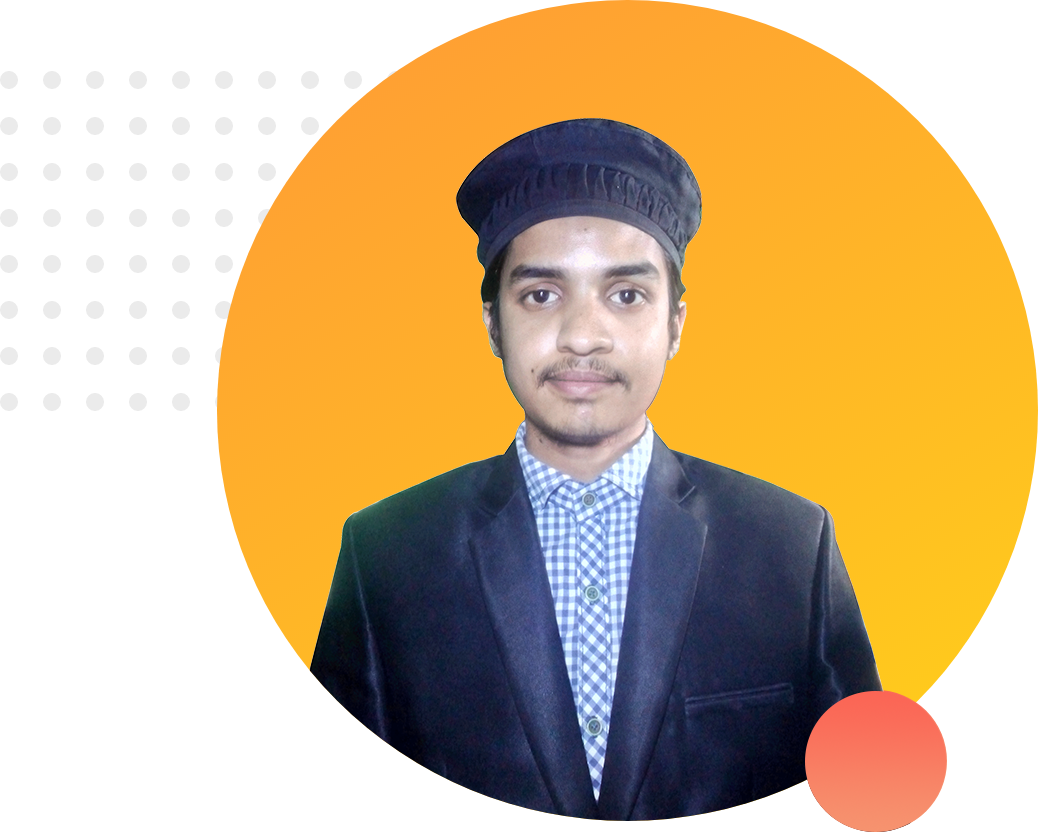
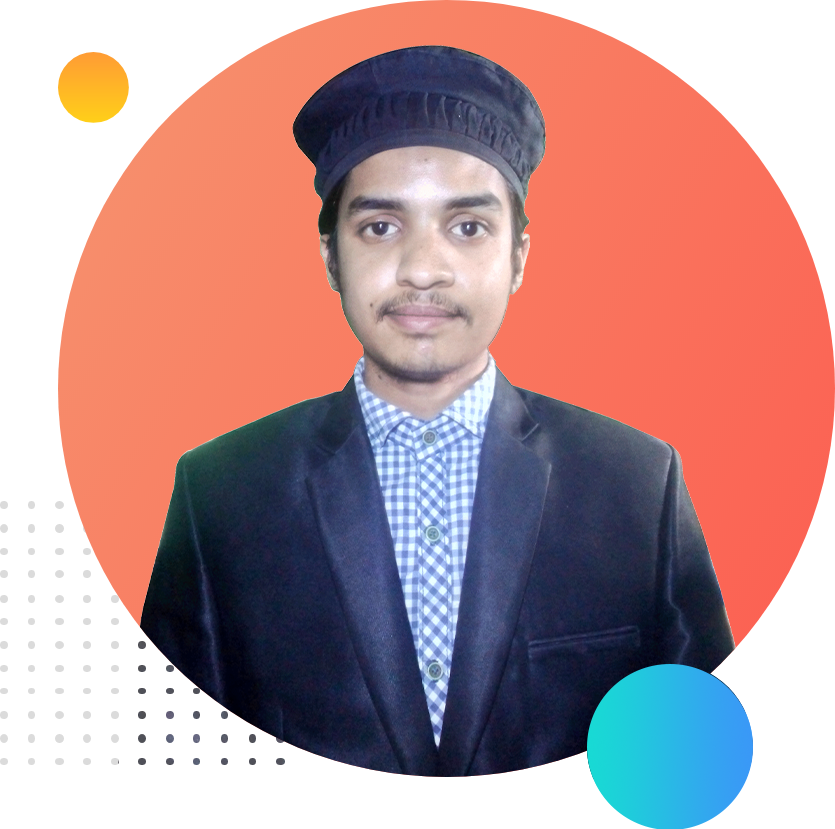
hero final update

diff --git a/index.html b/index.html
@@ -5,10 +5,7 @@
     <meta http-equiv="X-UA-Compatible" content="IE=edge" />
     <meta name="viewport" content="width=device-width, initial-scale=1.0" />
 
-    <link
-      href="https://fonts.googleapis.com/css2?family=Poppins:ital,wght@0,100;0,200;0,300;0,400;0,500;0,600;0,700;0,800;0,900;1,100;1,200;1,300;1,400;1,500;1,600;1,700;1,800;1,900&display=swap"
-      rel="stylesheet"
-    />
+    <link href="https://fonts.googleapis.com/css2?family=Poppins:ital,wght@0,100;0,200;0,300;0,400;0,500;0,600;0,700;0,800;0,900;1,100;1,200;1,300;1,400;1,500;1,600;1,700;1,800;1,900&display=swap" rel="stylesheet"/>
     <link rel="stylesheet" href="style.css" />
 
     <title>Yamin | Web Designer | Web Developer</title>
@@ -25,9 +22,7 @@
           aspernatur et nostrum omnis repellat! Pariatur eius voluptas
           voluptates rem illum libero?
         </p>
-        <a href="https://www.linkedin.com/in/fakhrulalamyamin/" target="_blank" class="btn"
-          >Hire Me</a
-        >
+        <a href="https://www.linkedin.com/in/fakhrulalamyamin/" target="_blank" class="btn">Hire Me</a>
       </div>
       <div class="half-width">
         <img src="./images/yamin1.png" alt="Fakhrul Alam Yamin" />

diff --git a/style.css b/style.css
@@ -19,12 +19,6 @@ h1 {
   padding-left: 2%;
 }
 
-.hero::after {
-  content: "";
-  display: table;
-  clear: both;
-}
-
 .half-width img {
   width: 100%;
 }
@@ -36,9 +30,14 @@ h1 {
   color: white;
   text-transform: uppercase;
   border-radius: 5px;
+  font-weight: 700;
 }
 
 .hero {
   background-image: url(./images/top-banner.png);
-  background-size: cover;
+  background-repeat: no-repeat;
+}
+
+section {
+  height: 500px;
 }
